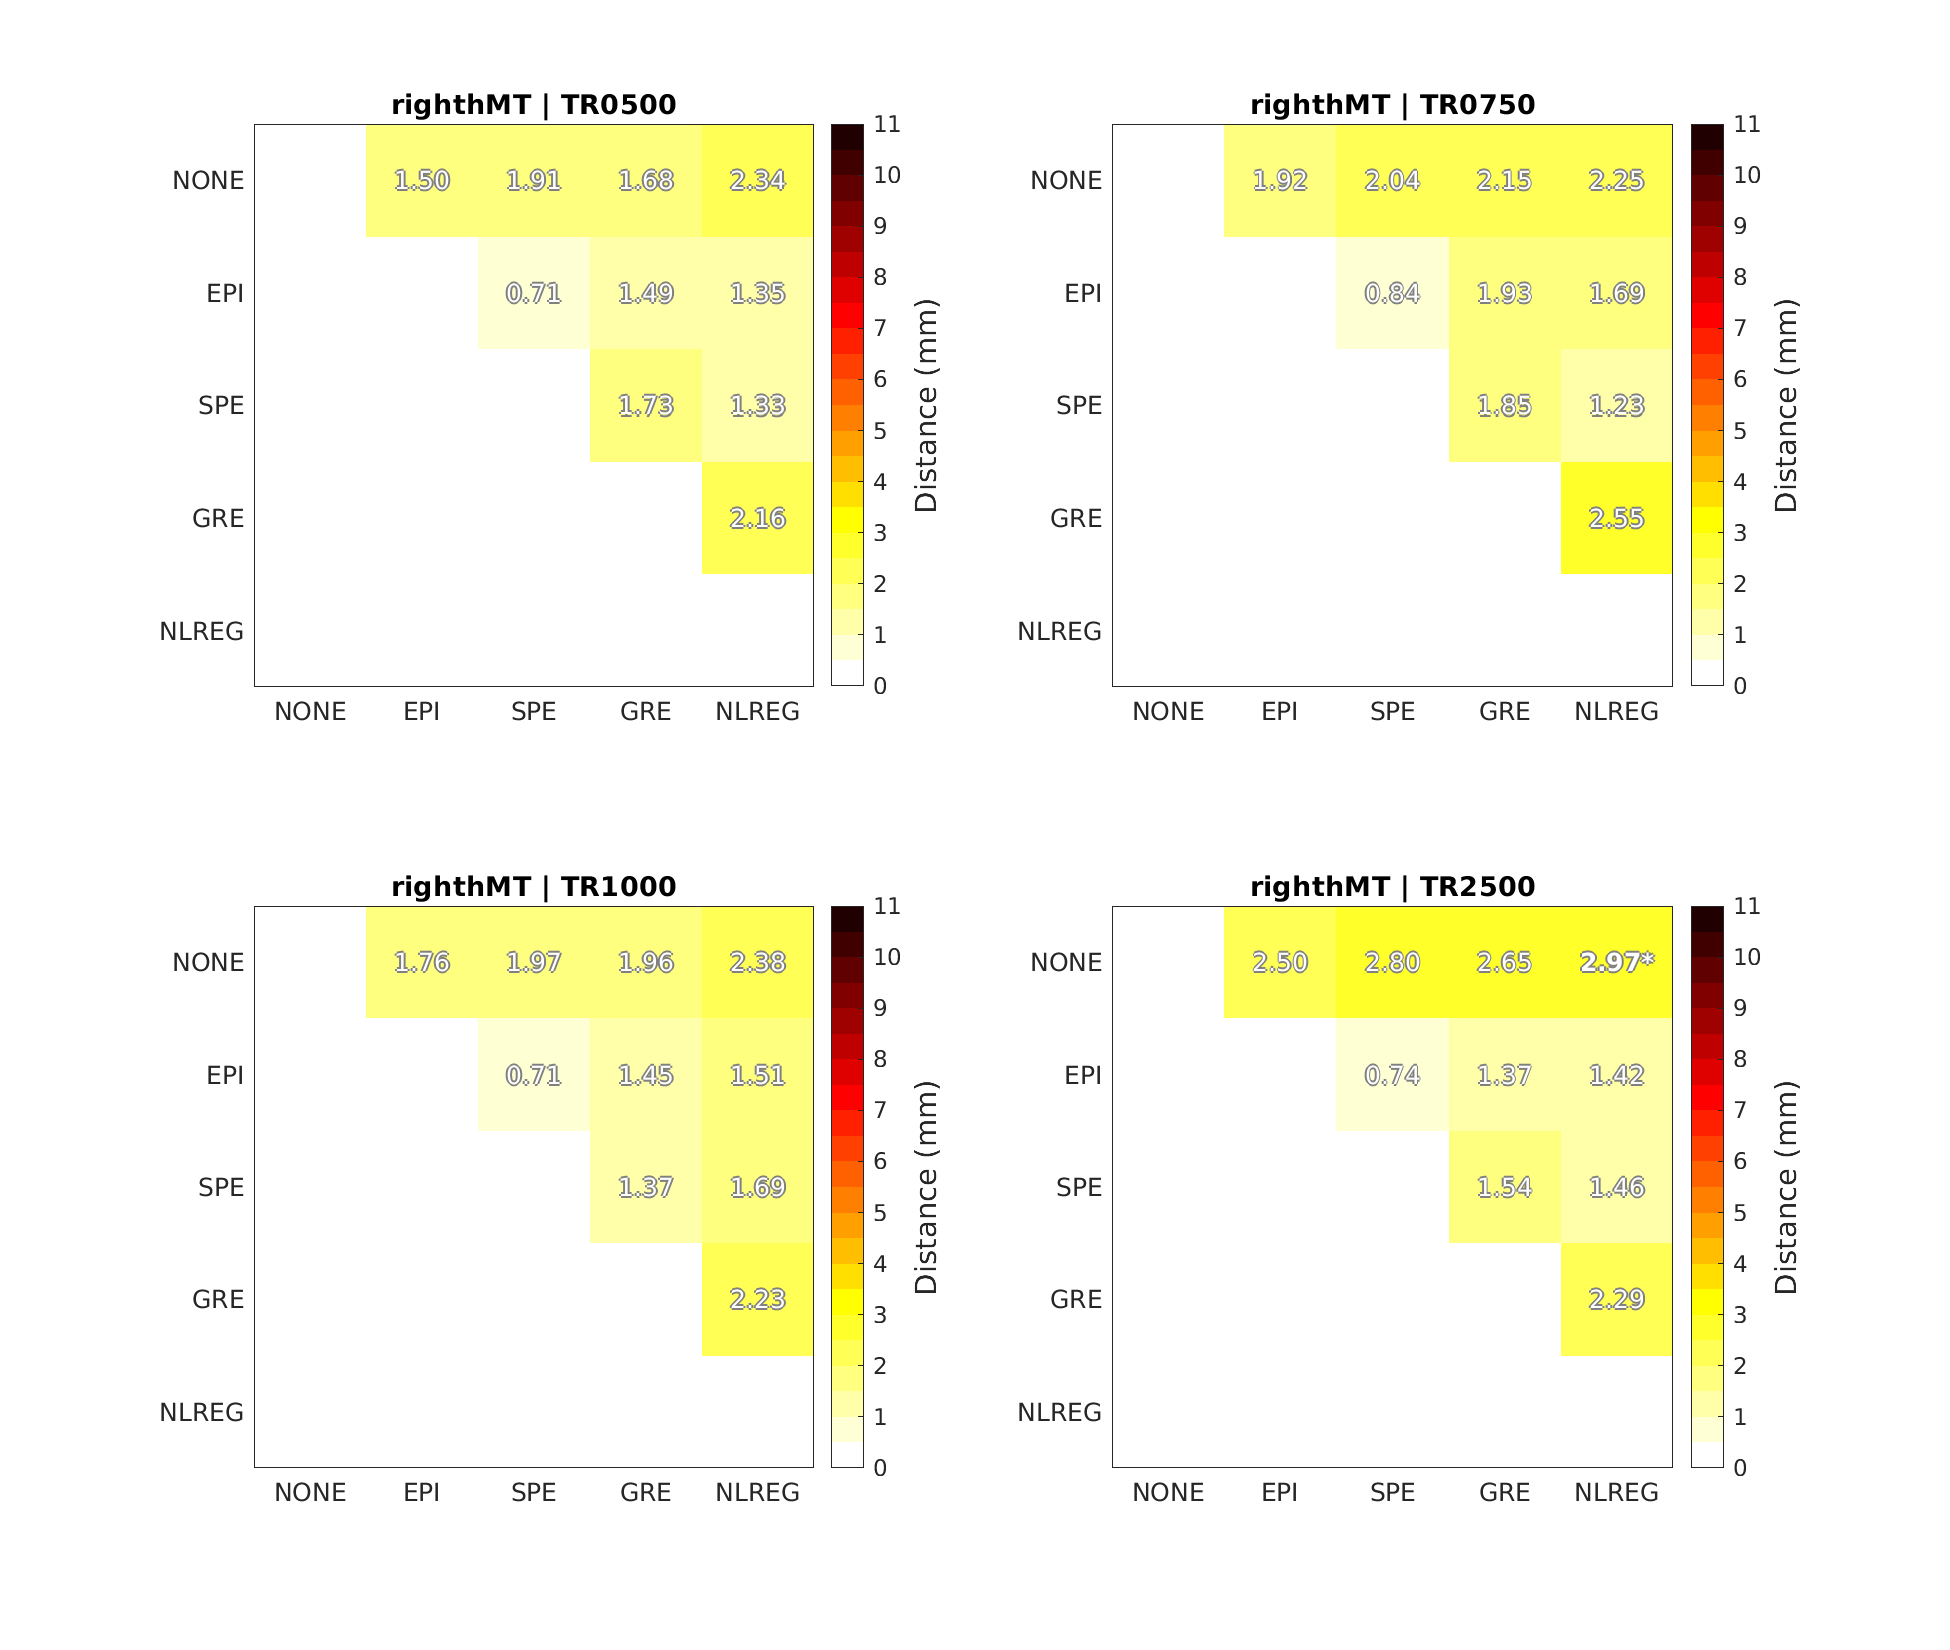
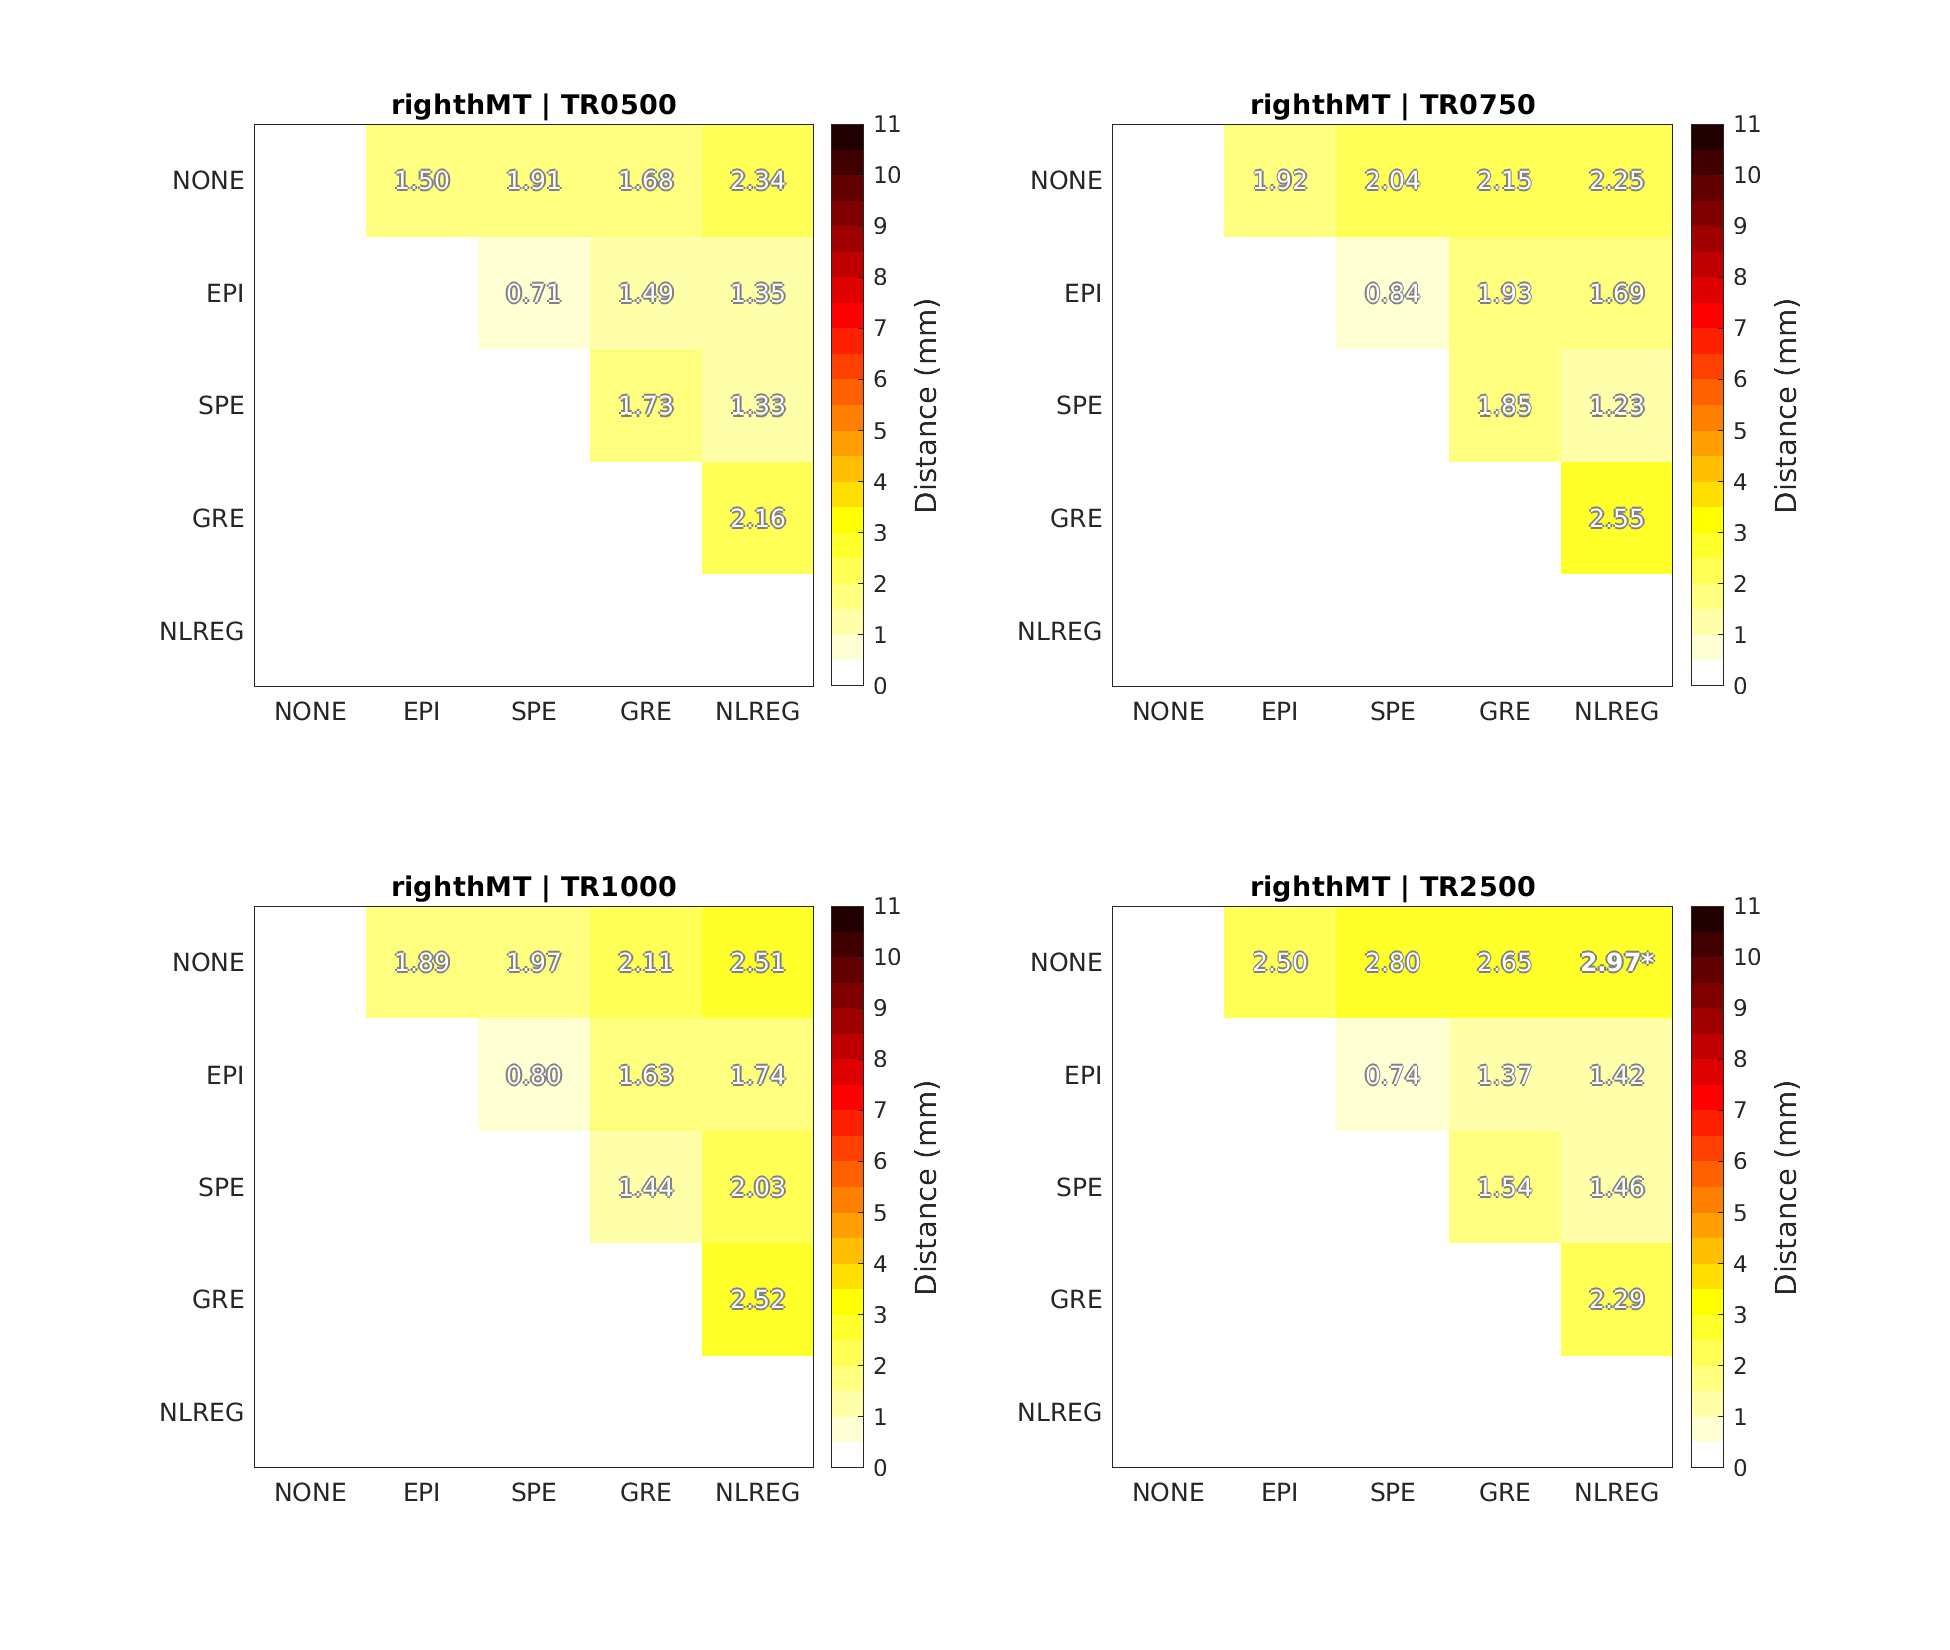
fix ROI data extraction - correcting contrasts for some rOIs

Changed region(s): [[0.2769, 0.5255, 0.4308, 0.8345], [0.2154, 0.5564, 0.2462, 0.5873]]

diff --git a/Module5-SPM12/Step04_ExtractDatafromROIs.m b/Module5-SPM12/Step04_ExtractDatafromROIs.m
@@ -128,18 +128,27 @@ for rr = 1:nROIs
         newROIName = [subjectList{ss} '_MNI152NLin2009cAsym-reslice_' roiList{rr} '_sphere8mm.nii'];
         movefile(fullfile(roiFolder,newROIName),subjectOutputROIFolder)
         
-        %%
+        %% Extract data in MNI
         % Iterate on the tasks
         for tt = 1:nTasks
+            
+            % Very custom adjustment - if the ROI is V1 and the task is the
+            % localizer, use the second contrast (Static vs. Fixation)
+            if tt == 9 && rr>=9
+                conString = 'con_0002.nii,1';
+            else
+                conString = 'con_0001.nii,1';
+            end
             
             [outputMatrix.MNI152NLin2009ASym.CoG_vox(:,rr,ss,tt),outputMatrix.MNI152NLin2009ASym.TValue(rr,ss,tt),outputMatrix.MNI152NLin2009ASym.PeakVoxTValue(rr,ss,tt),outputMatrix.MNI152NLin2009ASym.PeakVoxCoord_vox(:,rr,ss,tt),outputMatrix.MNI152NLin2009ASym.CoG_mm(:,rr,ss,tt),outputMatrix.MNI152NLin2009ASym.PeakVoxCoord_mm(:,rr,ss,tt)] = ...
                 extractROIdata(...
                     fullfile(subjectOutputROIFolder,newROIName), ...
-                    fullfile(spm12Folder,subjectList{ss},['model_' taskList{tt} '_MNI152NLin2009cAsym'],'con_0001.nii,1') );
+                    fullfile(spm12Folder,subjectList{ss},['model_' taskList{tt} '_MNI152NLin2009cAsym'],...
+                    conString) );
             
         end
         
-        % Transform ROIs to T1w space
+        %% Transform ROIs to T1w space
         
         transformMatrixFile = fullfile(fmriPrepFolder,subjectList{ss},'anat',[subjectList{ss} '_run-1_from-MNI152NLin2009cAsym_to-T1w_mode-image_xfm.h5']);
         t1wFile = fullfile(fmriPrepFolder,subjectList{ss},'anat',[subjectList{ss} '_run-1_desc-preproc_T1w.nii.gz']);
@@ -151,32 +160,42 @@ for rr = 1:nROIs
         
         system(cmd)
         
-        % unzip and resample ROIs to T1w
+        %% unzip and resample ROIs to T1w
         clear matlabbatch
         
         matlabbatch{1}.cfg_basicio.file_dir.file_ops.cfg_gunzip_files.files = {fullfile(subjectOutputROIFolder,[subjectList{ss} '_T1w_' roiList{rr} '.nii.gz'])};
         matlabbatch{1}.cfg_basicio.file_dir.file_ops.cfg_gunzip_files.outdir = {subjectOutputROIFolder};
         matlabbatch{1}.cfg_basicio.file_dir.file_ops.cfg_gunzip_files.keep = true;
         
-        matlabbatch{2}.spm.spatial.coreg.write.ref = {fullfile(spm12Folder,subjectList{ss},'model_task-loc_acq-1000_run-1_T1w','con_0001.nii,1')};
+        matlabbatch{2}.spm.spatial.coreg.write.ref = {fullfile(spm12Folder,subjectList{ss},'3d_task-loc_acq-1000_run-1_T1w',['ss' subjectList{ss} '_task-loc_acq-1000_run-1_space-T1w_desc-preproc_bold_00001.nii,1'])};
         matlabbatch{2}.spm.spatial.coreg.write.source(1) = cfg_dep('Gunzip Files: Gunzipped Files', substruct('.','val', '{}',{1}, '.','val', '{}',{1}, '.','val', '{}',{1}, '.','val', '{}',{1}), substruct('()',{':'}));
         matlabbatch{2}.spm.spatial.coreg.write.roptions.interp = 4;
         matlabbatch{2}.spm.spatial.coreg.write.roptions.wrap = [0 0 0];
         matlabbatch{2}.spm.spatial.coreg.write.roptions.mask = 0;
         matlabbatch{2}.spm.spatial.coreg.write.roptions.prefix = 'T1w-reslice_';
-        
+
         spm_jobman('run', matlabbatch);
         
         newROIName = [subjectList{ss} '_T1w-reslice_' roiList{rr} '_sphere8mm.nii'];
         movefile(fullfile(subjectOutputROIFolder,['T1w-reslice_' subjectList{ss} '_T1w_' roiList{rr} '.nii']),...
                  fullfile(subjectOutputROIFolder,newROIName))
         
+        %% Extract data in T1w
         for tt = 1:nTasks
+            
+            % Very custom adjustment - if the ROI is V1 and the task is the
+            % localizer, use the second contrast (Static vs. Fixation)
+            if tt == 9 && rr>=9
+                conString = 'con_0002.nii,1';
+            else
+                conString = 'con_0001.nii,1';
+            end
             
             [outputMatrix.T1w.CoG_vox(:,rr,ss,tt),outputMatrix.T1w.TValue(rr,ss,tt),outputMatrix.T1w.PeakVoxTValue(rr,ss,tt),outputMatrix.T1w.PeakVoxCoord_vox(:,rr,ss,tt),outputMatrix.T1w.CoG_mm(:,rr,ss,tt),outputMatrix.T1w.PeakVoxCoord_mm(:,rr,ss,tt)] = ...
                 extractROIdata(...
                     fullfile(subjectOutputROIFolder,newROIName), ...
-                    fullfile(spm12Folder,subjectList{ss},['model_' taskList{tt} '_T1w'],'con_0001.nii,1') );
+                    fullfile(spm12Folder,subjectList{ss},['model_' taskList{tt} '_T1w'],...
+                    conString) );
             
         end
         

diff --git a/Module5-SPM12/Step05_AnalyseDatafromROIs.m b/Module5-SPM12/Step05_AnalyseDatafromROIs.m
@@ -12,7 +12,7 @@ clear,clc
 sdcMethods = {'NONE', 'EPI', 'SPE', 'GRE', 'NLREG'};
 nMethods = length(sdcMethods);
 
-%% Load data from step 02
+%% Load data from step 04
 dataset = struct();
 
 for ii = 1:length(sdcMethods)
@@ -251,7 +251,7 @@ for rr = 1:nROIs
 
             % average for the runs with the same TR and save
             %TVALUE.(roiList{rr}).(TRList{tt})(:,mm) = mean(dataset.(sdcMethods{mm}).outputMatrix.MNI152NLin2009ASym.PeakVoxTValue(rr, :, TRIndexes{tt}) , 3);
-             TVALUE.(roiList{rr}).(TRList{tt})(:,mm) = mean(dataset.(sdcMethods{mm}).outputMatrix.T1w.PeakVoxTValue(rr, :, TRIndexes{tt}) , 3);         
+             TVALUE.(roiList{rr}).(TRList{tt})(:,mm) = mean(dataset.(sdcMethods{mm}).outputMatrix.T1w.TValue(rr, :, TRIndexes{tt}) , 3);         
         end
                
     end
